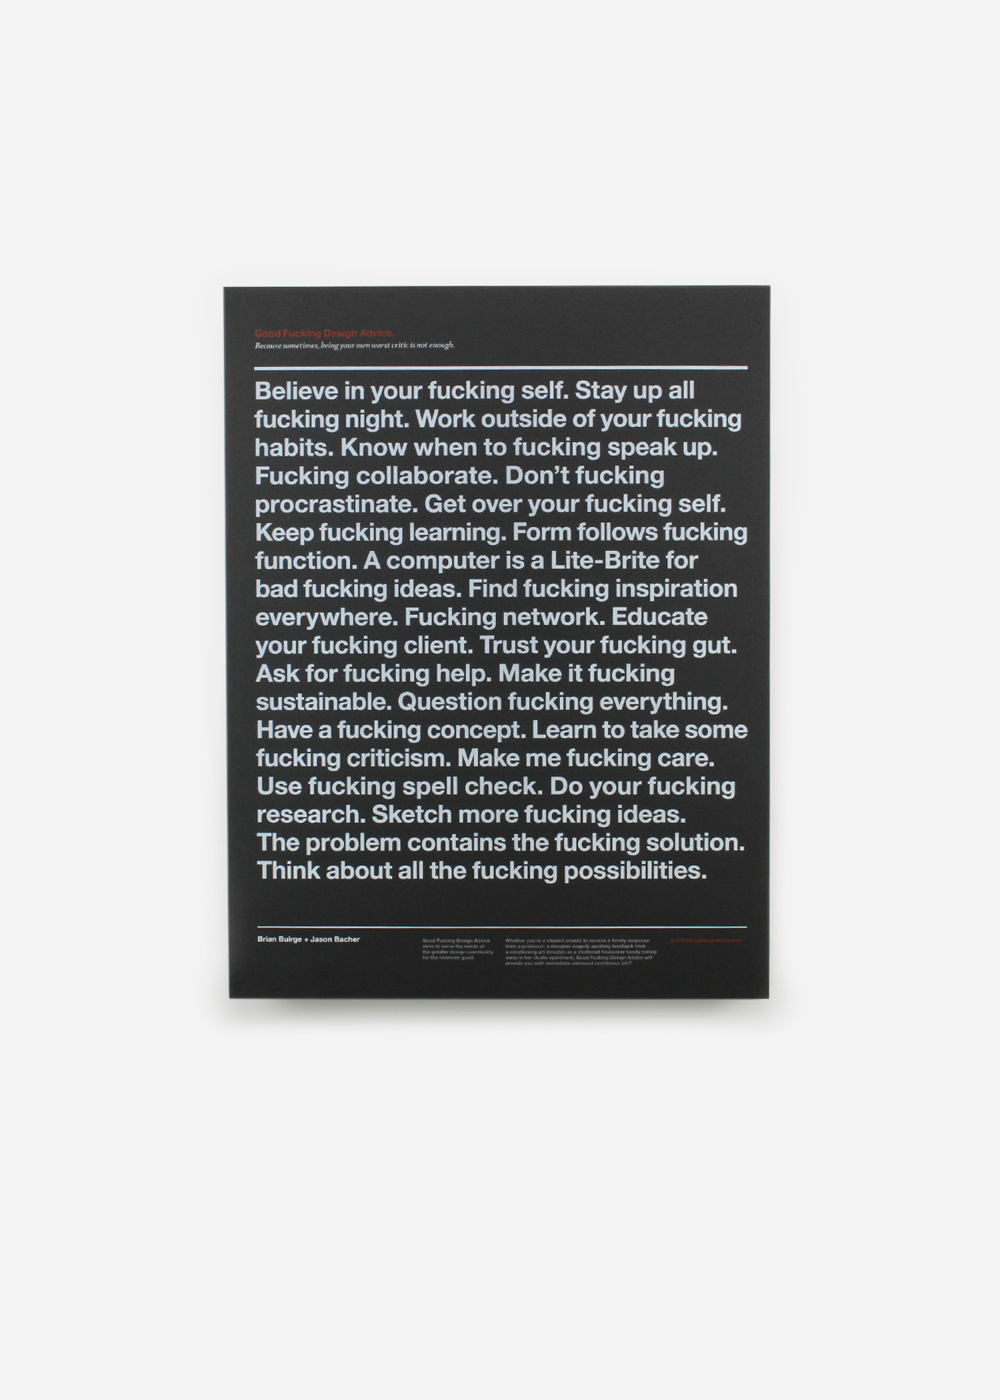
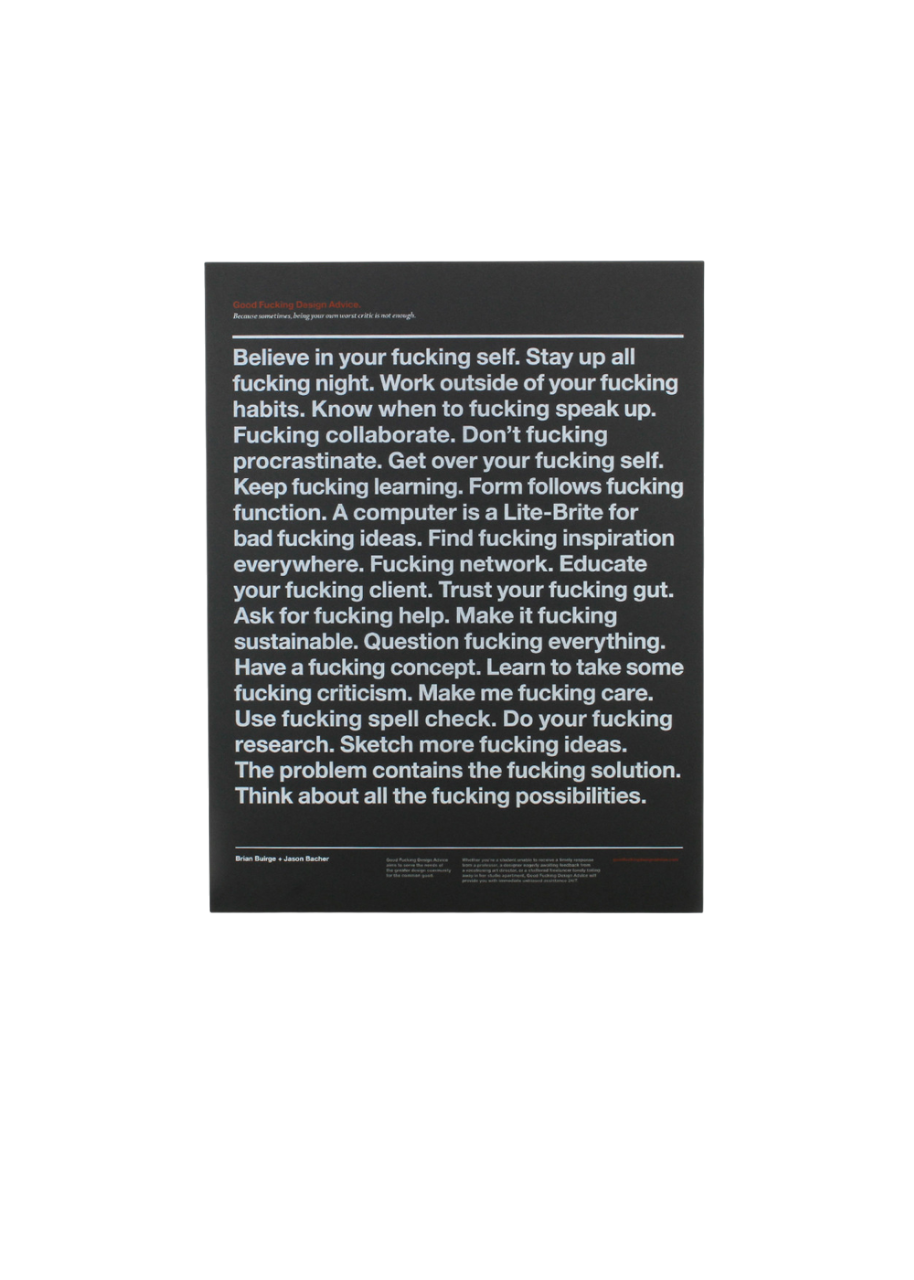
fixed img background and added popup Animation BUT ONLY slide in yet

Changed region(s): [[0.2144, 0.4062, 0.7965, 0.75], [0.2144, 0.4375, 0.2451, 0.5]]

diff --git a/src/components/Search/SearchFilterNav/SearchPopUp/SearchPopUp.jsx b/src/components/Search/SearchFilterNav/SearchPopUp/SearchPopUp.jsx
@@ -3,55 +3,76 @@ import ApplyBtn from "../../../btns/ApplyBtn/ApplyBtn";
 import { useContext, useEffect, useState } from "react";
 import { filterContext, dataContext } from "../../../../context/Context";
 import CheckBox from "../../../inputs/CheckBox/CheckBox";
-import './SearchPopUp.css'
+import "./SearchPopUp.css";
 import GoBackHeader from "../../../goBackHeader/GoBackHeader";
 
-const SearchPopUp = ({setOpen}) => {
-    const {filter, setFilter} = useContext(filterContext);
-    const [myFilters, setMyFilters] = useState();
-    const {data} = useContext(dataContext)
+const SearchPopUp = ({ setOpen }) => {
+	const { filter, setFilter } = useContext(filterContext);
+	const [myFilters, setMyFilters] = useState();
+	const { data } = useContext(dataContext);
 
-    const [categories, setCategories] = useState([]);
-    const [price, setprice] = useState([]);
-    const [brands, setBrands] = useState([]);
+	const [categories, setCategories] = useState([]);
+	const [price, setprice] = useState([]);
+	const [brands, setBrands] = useState([]);
 
-    const [uniqueCheck, setUniqueCheck] = useState();
+	const [uniqueCheck, setUniqueCheck] = useState();
 
-    const categoriesArray = [...new Set(data.products.map((item, i) => item.category))]
-    const priceArray = ["0 - 20 €", "20 - 50 €", "50 - 100 €", "über 100 €"]
-    const brandsArray = [...new Set(data.products.map((item, i) => item.brand))]
-    useEffect(() => {
-        setMyFilters([categories, price, brands])
-    }, [categories, price, brands])
+	const categoriesArray = [
+		...new Set(data.products.map((item, i) => item.category)),
+	];
+	const priceArray = ["0 - 20 €", "20 - 50 €", "50 - 100 €", "über 100 €"];
+	const brandsArray = [...new Set(data.products.map((item, i) => item.brand))];
+	useEffect(() => {
+		setMyFilters([categories, price, brands]);
+	}, [categories, price, brands]);
 
-    return ( 
-        <>
-            <section className="popup">
-                    <GoBackHeader isMenu={true}setOpen={setOpen} text="Filters"/>
-                <div className="article-wrapper">    
-                <article className="container">
-                    <h2>Categorie</h2>
-                    <div className="wrapper">
-                    {categoriesArray.map((ele, i) => <CheckBox setFilterType={setCategories} text={ele} key={i}/>)}
-                    </div>
-                </article>
-                <article className="container">
-                    <h2>Price</h2>
-                    <div className="wrapper">
-                    {priceArray.map((ele, i) => <CheckBox unique={true} uniqueCheck={uniqueCheck} setUniqueCheck={setUniqueCheck} filterType={price}setFilterType={setprice} text={ele} key={i}/>)}
-                    </div>
-                </article>
-                <article className="container">
-                    <h2>Brands</h2>
-                    <div className="wrapper">
-                    {brandsArray.map((ele, i) => <CheckBox setFilterType={setBrands} text={ele} key={i}/>)}
-                    </div>
-                </article>
-                </div>
-                <ApplyBtn myFilters={myFilters} setOpen={setOpen} link="/productlist" text="Apply Filter"/>
-            </section>
-        </>
-     );
-}
- 
+	return (
+		<>
+			<section className='popup'>
+				<GoBackHeader isMenu={true} setOpen={setOpen} text='Filters' />
+				<div className='article-wrapper'>
+					<article className='container'>
+						<h2>Categorie</h2>
+						<div className='wrapper'>
+							{categoriesArray.map((ele, i) => (
+								<CheckBox setFilterType={setCategories} text={ele} key={i} />
+							))}
+						</div>
+					</article>
+					<article className='container'>
+						<h2>Price</h2>
+						<div className='wrapper'>
+							{priceArray.map((ele, i) => (
+								<CheckBox
+									unique={true}
+									uniqueCheck={uniqueCheck}
+									setUniqueCheck={setUniqueCheck}
+									filterType={price}
+									setFilterType={setprice}
+									text={ele}
+									key={i}
+								/>
+							))}
+						</div>
+					</article>
+					<article className='container'>
+						<h2>Brands</h2>
+						<div className='wrapper'>
+							{brandsArray.map((ele, i) => (
+								<CheckBox setFilterType={setBrands} text={ele} key={i} />
+							))}
+						</div>
+					</article>
+				</div>
+				<ApplyBtn
+					myFilters={myFilters}
+					setOpen={setOpen}
+					link='/productlist'
+					text='Apply Filter'
+				/>
+			</section>
+		</>
+	);
+};
+
 export default SearchPopUp;

diff --git a/src/components/Search/SearchFilterNav/SearchPopUp/SearchPopUp.css b/src/components/Search/SearchFilterNav/SearchPopUp/SearchPopUp.css
@@ -1,103 +1,119 @@
 .popup {
-  display: flex;
-  position: absolute;
-  top: 0;
-  z-index: 2;
-  bottom: 0;
-  left: 0;
-  right: 0;
-  height: calc(100% - 100px);
-  background-color: var(--white, #fff);
-  flex-direction: column;
-  align-items: flex-start;
-  justify-content: space-evenly;
-  padding: 0 22px;
-  min-height: 100vh;
-  min-height: 100svh;
+	display: flex;
+	position: absolute;
+	top: 0;
+	z-index: 2;
+	bottom: 0;
+	left: 0;
+	right: 0;
+	height: calc(100% - 100px);
+	background-color: var(--white, #fff);
+	flex-direction: column;
+	align-items: flex-start;
+	justify-content: space-evenly;
+	padding: 0 22px;
+	min-height: 100vh;
+	min-height: 100svh;
+	animation: popupAnimation 0.8s ease-in-out forwards;
+	animation-delay: 0.1s;
+	opacity: 0;
+	transform: translate(100%, -100%);
 }
+
+@keyframes popupAnimation {
+	from {
+		opacity: 0;
+		transform: translateX(100%);
+	}
+	to {
+		opacity: 1;
+		transform: translateX(0);
+	}
+}
+
 .popup .container {
-  margin-bottom: 45px;
+	margin-bottom: 45px;
 }
 .popup .container h2 {
-  color: var(--gray-01, #1e2126);
-  font-size: 1.6rem;
-  font-family: "Poppins", Arial, Helvetica, sans-serif;
-  font-weight: 600;
-  line-height: 2.4rem;
-  letter-spacing: 0.01rem;
-  margin-bottom: 20px;
+	color: var(--gray-01, #1e2126);
+	font-size: 1.6rem;
+	font-family: "Poppins", Arial, Helvetica, sans-serif;
+	font-weight: 600;
+	line-height: 2.4rem;
+	letter-spacing: 0.01rem;
+	margin-bottom: 20px;
 }
 
 .popup .container .checkbox {
-  color: #5c6574;
-  text-align: center;
-  font-size: 1.2rem;
-  font-family: "Poppins", Arial, Helvetica, sans-serif;
-  font-weight: 500;
-  line-height: 1.8rem;
-  padding: 8px 15px;
+	color: #5c6574;
+	text-align: center;
+	font-size: 1.2rem;
+	font-family: "Poppins", Arial, Helvetica, sans-serif;
+	font-weight: 500;
+	line-height: 1.8rem;
+	padding: 8px 15px;
 }
 
 .popup .wrapper {
-  display: flex;
-  flex-wrap: wrap;
-  justify-content: flex-start;
-  align-items: flex-start;
-  gap: 5px;
-  text-align: center;
-  margin-left: 11px;
+	display: flex;
+	flex-wrap: wrap;
+	justify-content: flex-start;
+	align-items: flex-start;
+	gap: 5px;
+	text-align: center;
+	margin-left: 11px;
 }
 
 .article-wrapper {
-  height: calc(100% - 200px);
-  overflow-y: auto;
-  -ms-overflow-style: none;
-  scrollbar-width: none;
+	height: calc(100% - 200px);
+	overflow-y: auto;
+	-ms-overflow-style: none;
+	scrollbar-width: none;
 }
 .article-wrapper::-webkit-scrollbar {
-  display: none;
+	display: none;
 }
 
 @media screen and (min-width: 768px) {
-  .popup {
-    padding: 0 16px;
-  }
-  .popup .container h2 {
-    font-size: 1.4rem;
-    line-height: 2.2rem;
-  }
-  .popup .container .checkbox {
-    font-size: 1rem;
-    line-height: 1.6rem;
-    padding: 6px 12px;
-  }
-  .popup .wrapper {
-    margin-left: 8px;
-    gap: 3px;
-  }
-  .article-wrapper {
-    height: calc(100% - 180px);
-  }
+	.popup {
+		padding: 0 16px;
+	}
+	.popup .container h2 {
+		font-size: 1.4rem;
+		line-height: 2.2rem;
+	}
+	.popup .container .checkbox {
+		font-size: 1rem;
+		line-height: 1.6rem;
+		padding: 6px 12px;
+	}
+	.popup .wrapper {
+		margin-left: 8px;
+		gap: 3px;
+	}
+	.article-wrapper {
+		height: calc(100% - 180px);
+	}
 }
 
 @media screen and (min-width: 992px) {
-  .popup {
-    padding: 0 16px;
-  }
-  .popup .container h2 {
-    font-size: 1.4rem;
-    line-height: 2.2rem;
-  }
-  .popup .container .checkbox {
-    font-size: 1rem;
-    line-height: 1.6rem;
-    padding: 6px 12px;
-  }
-  .popup .wrapper {
-    margin-left: 8px;
-    gap: 3px;
-  }
-  .article-wrapper {
-    height: calc(100% - 180px);
-  }
+	.popup {
+		padding: 0 16px;
+	}
+	.popup .container h2 {
+		font-size: 1.4rem;
+		line-height: 2.2rem;
+	}
+	.popup .container .checkbox {
+		font-size: 1rem;
+		line-height: 1.6rem;
+		padding: 6px 12px;
+	}
+	.popup .wrapper {
+		margin-left: 8px;
+		gap: 3px;
+	}
+	.article-wrapper {
+		height: calc(100% - 180px);
+	}
 }
